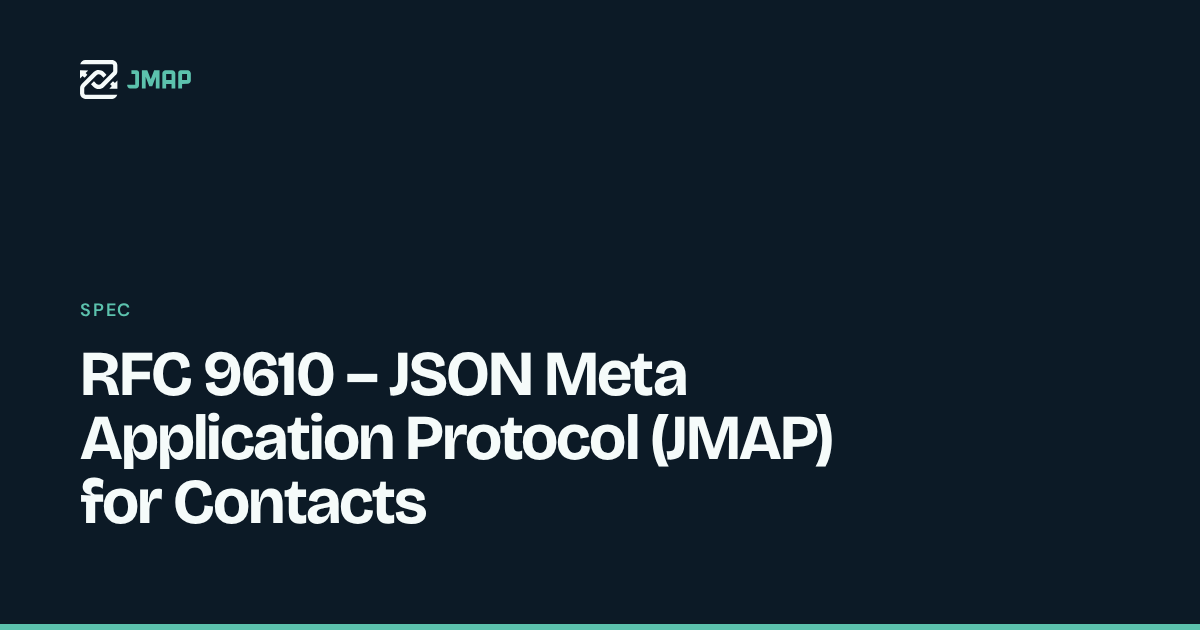
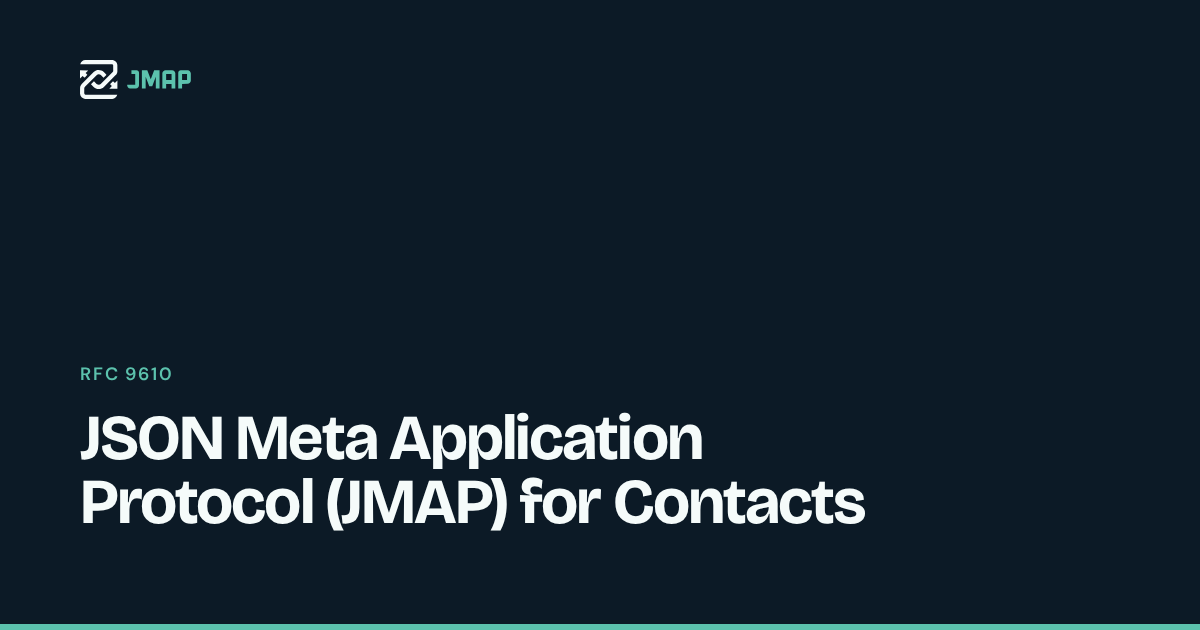
Configure og image params from template

Changed region(s): [[0.0617, 0.5429, 0.74, 0.8444], [0.0617, 0.4825, 0.1233, 0.5127]]

diff --git a/scripts/generate-og-images.js b/scripts/generate-og-images.js
@@ -50,21 +50,19 @@ const collectPages = async () => {
         const isRFC = fm.layout === 'article-rfc';
         const isHome = slug === 'home';
 
-        const eyebrow =
-            fm.hero?.eyebrow ?? (isRFC ? 'Spec' : isHome ? 'JMAP' : '');
-        const title = isHome
-            ? 'The API for<br><span style="color:var(--theme-accent)">better email</span>'
-            : (fm.hero?.title ?? fm.title ?? slug);
-        const description = isRFC ? '' : (fm.hero?.sub ?? fm.description ?? '');
+        const eyebrow = fm.og_image?.eyebrow ?? fm.hero?.eyebrow ?? '';
+        const title = fm.og_image?.title ?? fm.hero?.title ?? fm.title ?? slug;
+        const description =
+            fm.og_image?.description ?? fm.hero?.sub ?? fm.description ?? '';
 
         const titleLen = title.length;
-        const canModifyClass = !isHome && description;
-        const titleClass =
-            canModifyClass && titleLen > 90
-                ? 'og-title og-title--sm'
-                : canModifyClass && titleLen > 60
-                  ? 'og-title og-title--md'
-                  : 'og-title';
+        const titleClass = fm.og_image?.class
+            ? `og-title ${fm.og_image.class}`
+            : titleLen > 90
+              ? 'og-title og-title--sm'
+              : titleLen > 60
+                ? 'og-title og-title--md'
+                : 'og-title';
 
         pages.push({ slug, eyebrow, title, description, titleClass });
     }
